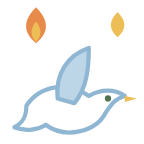
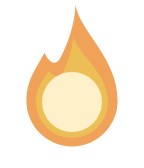
Calendar: each holy day's drawing now holds its date
The faded, blurred art behind the number was hard to see. Every feast is
redrawn as a crisp date holder with a calm middle for the number: the date
sits inside the wreath, on the egg, in the flame. The list under the grid
shows the same drawings, so grid and list match.

Claude-Session: https://claude.ai/code/session_01C4JP6D8xy5aA4aRoq7rax6

diff --git a/mobile/src/components/GatheringCalendar.tsx b/mobile/src/components/GatheringCalendar.tsx
@@ -13,32 +13,63 @@ import {
   holyDayName,
   holyDaysForCalendar,
 } from "../lib/holy-days";
-import { holyDayImages } from "../lib/holy-day-art";
-// A feast's small illustration: a wreath for Christmas, eggs for Easter.
-function HolyDayMark({
+import {
+  holyDayDateLight,
+  holyDayDateShape,
+  holyDayImages,
+} from "../lib/holy-day-art";
+// A feast's drawing holds its date: the number is printed in the drawing's
+// calm middle (inside the wreath, on the egg), never over or under it.
+const HOLDER_WIDTH = 45,
+  DATE_LINE = 20,
+  dateTop = (width: number) =>
+    width * holyDayDateShape.ratio * holyDayDateShape.centre - DATE_LINE / 2;
+function DateHolder({
   id,
-  size,
-  opacity = 1,
-  soft = false,
+  day,
+  width = HOLDER_WIDTH,
+  dim = false,
 }: {
   id: HolyDayId;
-  size: number;
-  opacity?: number;
-  // Slightly out of focus, for sitting behind a date.
-  soft?: boolean;
+  day: number;
+  width?: number;
+  dim?: boolean;
 }) {
+  const art = holyDayArt[id];
   return (
-    <Image
-      source={holyDayImages[holyDayArt[id]]}
+    <View
       accessible={false}
-      blurRadius={soft ? 1 : 0}
-      style={{ width: size, height: size, opacity }}
-    />
+      style={{
+        width,
+        height: width * holyDayDateShape.ratio,
+        alignItems: "center",
+      }}
+    >
+      <Image
+        source={holyDayImages[art]}
+        accessible={false}
+        style={{
+          position: "absolute",
+          width,
+          height: width * holyDayDateShape.ratio,
+          opacity: dim ? 0.55 : 1,
+        }}
+      />
+      <Text
+        style={{
+          position: "absolute",
+          top: dateTop(width),
+          lineHeight: DATE_LINE,
+          fontSize: 15,
+          fontWeight: "700",
+          color: holyDayDateLight[art] ? colors.white : colors.ink,
+        }}
+      >
+        {day}
+      </Text>
+    </View>
   );
 }
-// A ring leaves its middle open, so the date reads clearly inside it at full
-// strength. Every other drawing sits faded behind the date.
-const isRing = (id: HolyDayId) => holyDayArt[id] === "wreath";
 export default function GatheringCalendar({
   gatherings,
   selected,
@@ -130,7 +161,8 @@ export default function GatheringCalendar({
             on = selected === key(d),
             isToday = key(d) === todayKey,
             past = d.getTime() < todayStart,
-            feasts = holyDays.filter((h) => h.day === day);
+            feasts = holyDays.filter((h) => h.day === day),
+            feast = feasts[0];
           return (
             <View key={i} style={{ width: "14.28%", padding: 2 }}>
               <Pressable
@@ -142,10 +174,8 @@ export default function GatheringCalendar({
                 ].join(", ")}
                 onPress={() => setSelected(on ? "" : key(d))}
                 style={{
-                  minHeight: 48,
+                  height: 56,
                   alignItems: "center",
-                  justifyContent: "center",
-                  gap: 2,
                   borderRadius: 14,
                   backgroundColor: on
                     ? colors.green
@@ -156,60 +186,56 @@ export default function GatheringCalendar({
                   borderColor: colors.gold,
                 }}
               >
-                {/* The date, with the day's drawing behind it. */}
-                <View
-                  style={{
-                    width: 34,
-                    height: 30,
-                    alignItems: "center",
-                    justifyContent: "center",
-                  }}
-                >
-                  {!!feasts.length && (
-                    <View
-                      accessible={false}
-                      pointerEvents="none"
-                      style={{ position: "absolute", top: -9, left: -7 }}
-                    >
-                      <HolyDayMark
-                        id={feasts[0].id}
-                        size={48}
-                        soft={!isRing(feasts[0].id)}
-                        opacity={
-                          (isRing(feasts[0].id) ? 1 : 0.42) *
-                          (past && !on ? 0.6 : 1)
-                        }
-                      />
-                    </View>
-                  )}
+                {feast ? (
+                  <DateHolder id={feast.id} day={day} dim={past && !on} />
+                ) : (
                   <Text
                     style={{
+                      position: "absolute",
+                      top: dateTop(HOLDER_WIDTH),
+                      lineHeight: DATE_LINE,
                       fontSize: 15,
-                      fontWeight: isToday || feasts.length ? "700" : "500",
+                      fontWeight: isToday ? "700" : "500",
                       color: on
                         ? colors.white
-                        : past && !has && !feasts.length
+                        : past && !has
                           ? colors.muted
                           : colors.ink,
                     }}
                   >
                     {day}
                   </Text>
-                </View>
-                <View
-                  accessible={false}
-                  style={{
-                    width: 6,
-                    height: 6,
-                    borderRadius: 3,
-                    backgroundColor: first
-                      ? on
-                        ? colors.white
-                        : gatheringTheme(first).accent
-                      : "transparent",
-                    opacity: past && !on ? 0.45 : 1,
-                  }}
-                />
+                )}
+                {/* A gathering that day: a dot under the date, or at the
+                    corner when a feast's drawing fills the cell. */}
+                {!!first && (
+                  <View
+                    accessible={false}
+                    style={[
+                      {
+                        position: "absolute",
+                        width: 6,
+                        height: 6,
+                        borderRadius: 3,
+                        backgroundColor: on
+                          ? colors.white
+                          : gatheringTheme(first).accent,
+                        opacity: past && !on ? 0.45 : 1,
+                      },
+                      feast
+                        ? {
+                            top: 1,
+                            right: -1,
+                            width: 9,
+                            height: 9,
+                            borderRadius: 4.5,
+                            borderWidth: 1.5,
+                            borderColor: colors.white,
+                          }
+                        : { bottom: 6 },
+                    ]}
+                  />
+                )}
               </Pressable>
             </View>
           );
@@ -218,7 +244,7 @@ export default function GatheringCalendar({
       {!!holyDays.length && (
         <View
           style={{
-            gap: 8,
+            gap: 6,
             paddingTop: 12,
             borderTopWidth: 1,
             borderTopColor: surface.line,
@@ -232,10 +258,10 @@ export default function GatheringCalendar({
                 style={{
                   flexDirection: "row",
                   alignItems: "center",
-                  gap: 10,
+                  gap: 14,
                 }}
               >
-                <HolyDayMark id={h.id} size={36} />
+                <DateHolder id={h.id} day={h.day} />
                 <Text
                   accessibilityLabel={`${new Date(
                     h.year,
@@ -247,13 +273,12 @@ export default function GatheringCalendar({
                   })}, ${name}`}
                   style={{
                     flex: 1,
-                    fontSize: 14,
-                    lineHeight: 20,
+                    fontSize: 15,
+                    lineHeight: 21,
                     color: surface.ink,
                   }}
                 >
-                  <Text style={{ fontWeight: "700" }}>{h.day}</Text>
-                  {" · " + name}
+                  {name}
                 </Text>
               </View>
             );

diff --git a/mobile/src/lib/holy-day-art.ts b/mobile/src/lib/holy-day-art.ts
@@ -1,8 +1,9 @@
 import type { ImageSourcePropType } from "react-native";
 import type { HolyDayArt } from "./holy-days";
 
-// The illustrations themselves. They are drawn as SVG in assets/holy-days/svg
-// and shipped as PNG, so the app needs no SVG library.
+// The illustrations themselves: each feast drawn to hold its date (the number
+// sits inside the wreath, on the egg). They are drawn as SVG in
+// assets/holy-days/svg and shipped as PNG, so the app needs no SVG library.
 export const holyDayImages: Record<HolyDayArt, ImageSourcePropType> = {
   wreath: require("../../assets/holy-days/wreath.png"),
   eggs: require("../../assets/holy-days/eggs.png"),
@@ -20,4 +21,12 @@ export const holyDayImages: Record<HolyDayArt, ImageSourcePropType> = {
   halo: require("../../assets/holy-days/halo.png"),
   rose: require("../../assets/holy-days/rose.png"),
   book: require("../../assets/holy-days/book.png"),
+};
+
+// Each drawing is 120 wide and 140 tall with a calm middle where the calendar
+// prints the date; `centre` is how far down that middle sits.
+export const holyDayDateShape = { ratio: 140 / 120, centre: 82 / 140 };
+// The few whose middle is dark enough to need a white number.
+export const holyDayDateLight: Partial<Record<HolyDayArt, boolean>> = {
+  redegg: true,
 };
